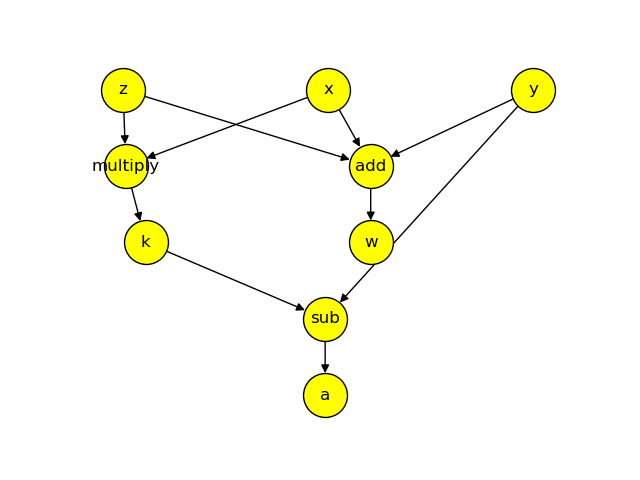
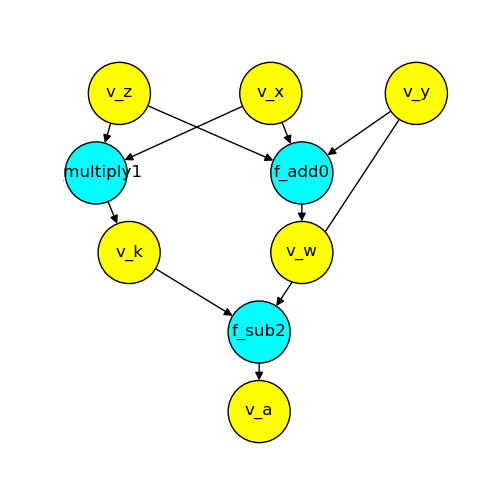
furnished documentation

Changed region(s): [[0.12, 0.125, 0.75, 0.9062], [0.69, 0.125, 0.9, 0.3125], [0.66, 0.4062, 0.69, 0.4375]]

diff --git a/Presentation/demo.py b/Presentation/demo.py
@@ -21,4 +21,4 @@ def impure2(a):
 def impure3():
     with open('file.txt') as f:
         text = f.read()
-    return f
+    return text

diff --git a/README.md b/README.md
@@ -1,6 +1,8 @@
 # Hoo-Ray
 
-Meet Hoo-Ray: Ray-like distributed execution engine for Haskell, written in Haskell. **TODO: Details about the modules and features in this package once all dust is settled**
+Meet Hoo-Ray: Ray-like distributed execution engine for Haskell, written in Haskell. Hoo-Ray uses an abstract syntax tree parser to parsing the data dependencies in the main function of a given Haskell program, and a greedy scheduler for scheduling all computations that have their dependency ready.
+
+This project is done as part of the course [CS 512: Distributed Systems](https://courses.cs.duke.edu/spring23/compsci512/) at Duke University in Spring 2023.
 
 # Quickstart
 
@@ -58,6 +60,10 @@ Generates a dependency graph (in text) from input file. e.g. `cabal run dependen
 
 We also have a Python script using [NetworkX](https://networkx.org) and [PyGraphviz](https://pygraphviz.github.io) to visualize the graph. To run it, first install these two packages in your Python environment. Then redirect the output of the above command via e.g. `cabal run dependency-graph Tests/pure1.hs > Vis/graph.out`. Finally, modify the corresponding variables in `Vis/fetch_graph.py` and run `python Vis/fetch_graph.py`.
 
+Output of `cabal run dependency-graph Tests/pure1.hs > Vis/graph.out` and `python Vis/fetch_graph.py` as an example:
+
+![example graph](Vis/ex_graph.png)
+
 ##### distributed-compute
 
 A simple example of a pair of master-slave server such that the master sends a job to a slave and the slave sends the job results back. All this logic is wrapped in the `Process ()` monad.
@@ -66,7 +72,8 @@ The parameters of this module are in the form `'master <host> <port>' or 'slave 
 
 ##### matmul_test_gen
 
-Generates single-threaded (*Tests/matmul_ss_test.hs*) and multi-threaded (*Tests/matmul_ms_test.hs*) test files with matrix multiplication operations. For a detailed look at the configuration options, run 
+Generates single-threaded (*Tests/matmul_ss_test.hs*) and multi-threaded (*Tests/matmul_ms_test.hs*) test files with matrix multiplication operations. For a detailed look at the configuration options, run
+
 ```
 cabal run matmul_test_gen -- -h
 ```
@@ -74,6 +81,8 @@ To run the resulting multi-threaded test file, pass in the runtime flags like so
 ```
 cabal run matmul_ms_test -- +RTS -N
 ```
+
+We have deprecated the `-t` flag, so the way to time this function would be to use the `time` command. e.g. `time cabal run matmul_ms_test -- +RTS -N`.
 
 ## Other modules
 
@@ -97,3 +106,21 @@ Add your file and its dependencies to `Hoo-Ray.cabal` just like the ones before.
 
 <!-- There is also a flag (-O) for GHC to compile everything aggressively optimized,  but that requires recompiling of all the existing libraries via `cabal install -p package --reinstall`-->
 
+
+# Current benchmarking results
+
+#### Dennis' computer (2022 MacBook Pro, 10-core M1 Pro, Rosetta emulation (??))
+
+*@Dennis: fill in here and also figure out whether you had Rosetta while running these tests*
+
+#### Jaden's computer (2019 MacBook Pro, 8-core i9)
+
+100 lines, 100x1000x100 matrices.
+
+```
+cabal run matmul_test_gen -- -l 100 -m 100 -n 1000 -p 100 -r 1
+
+cabal run matmul_ms_test -- +RTS -N  120.58s user 10.18s system 1254% cpu 10.425 total
+
+cabal run matmul_ss_test  33.87s user 1.42s system 97% cpu 36.296 total
+```
